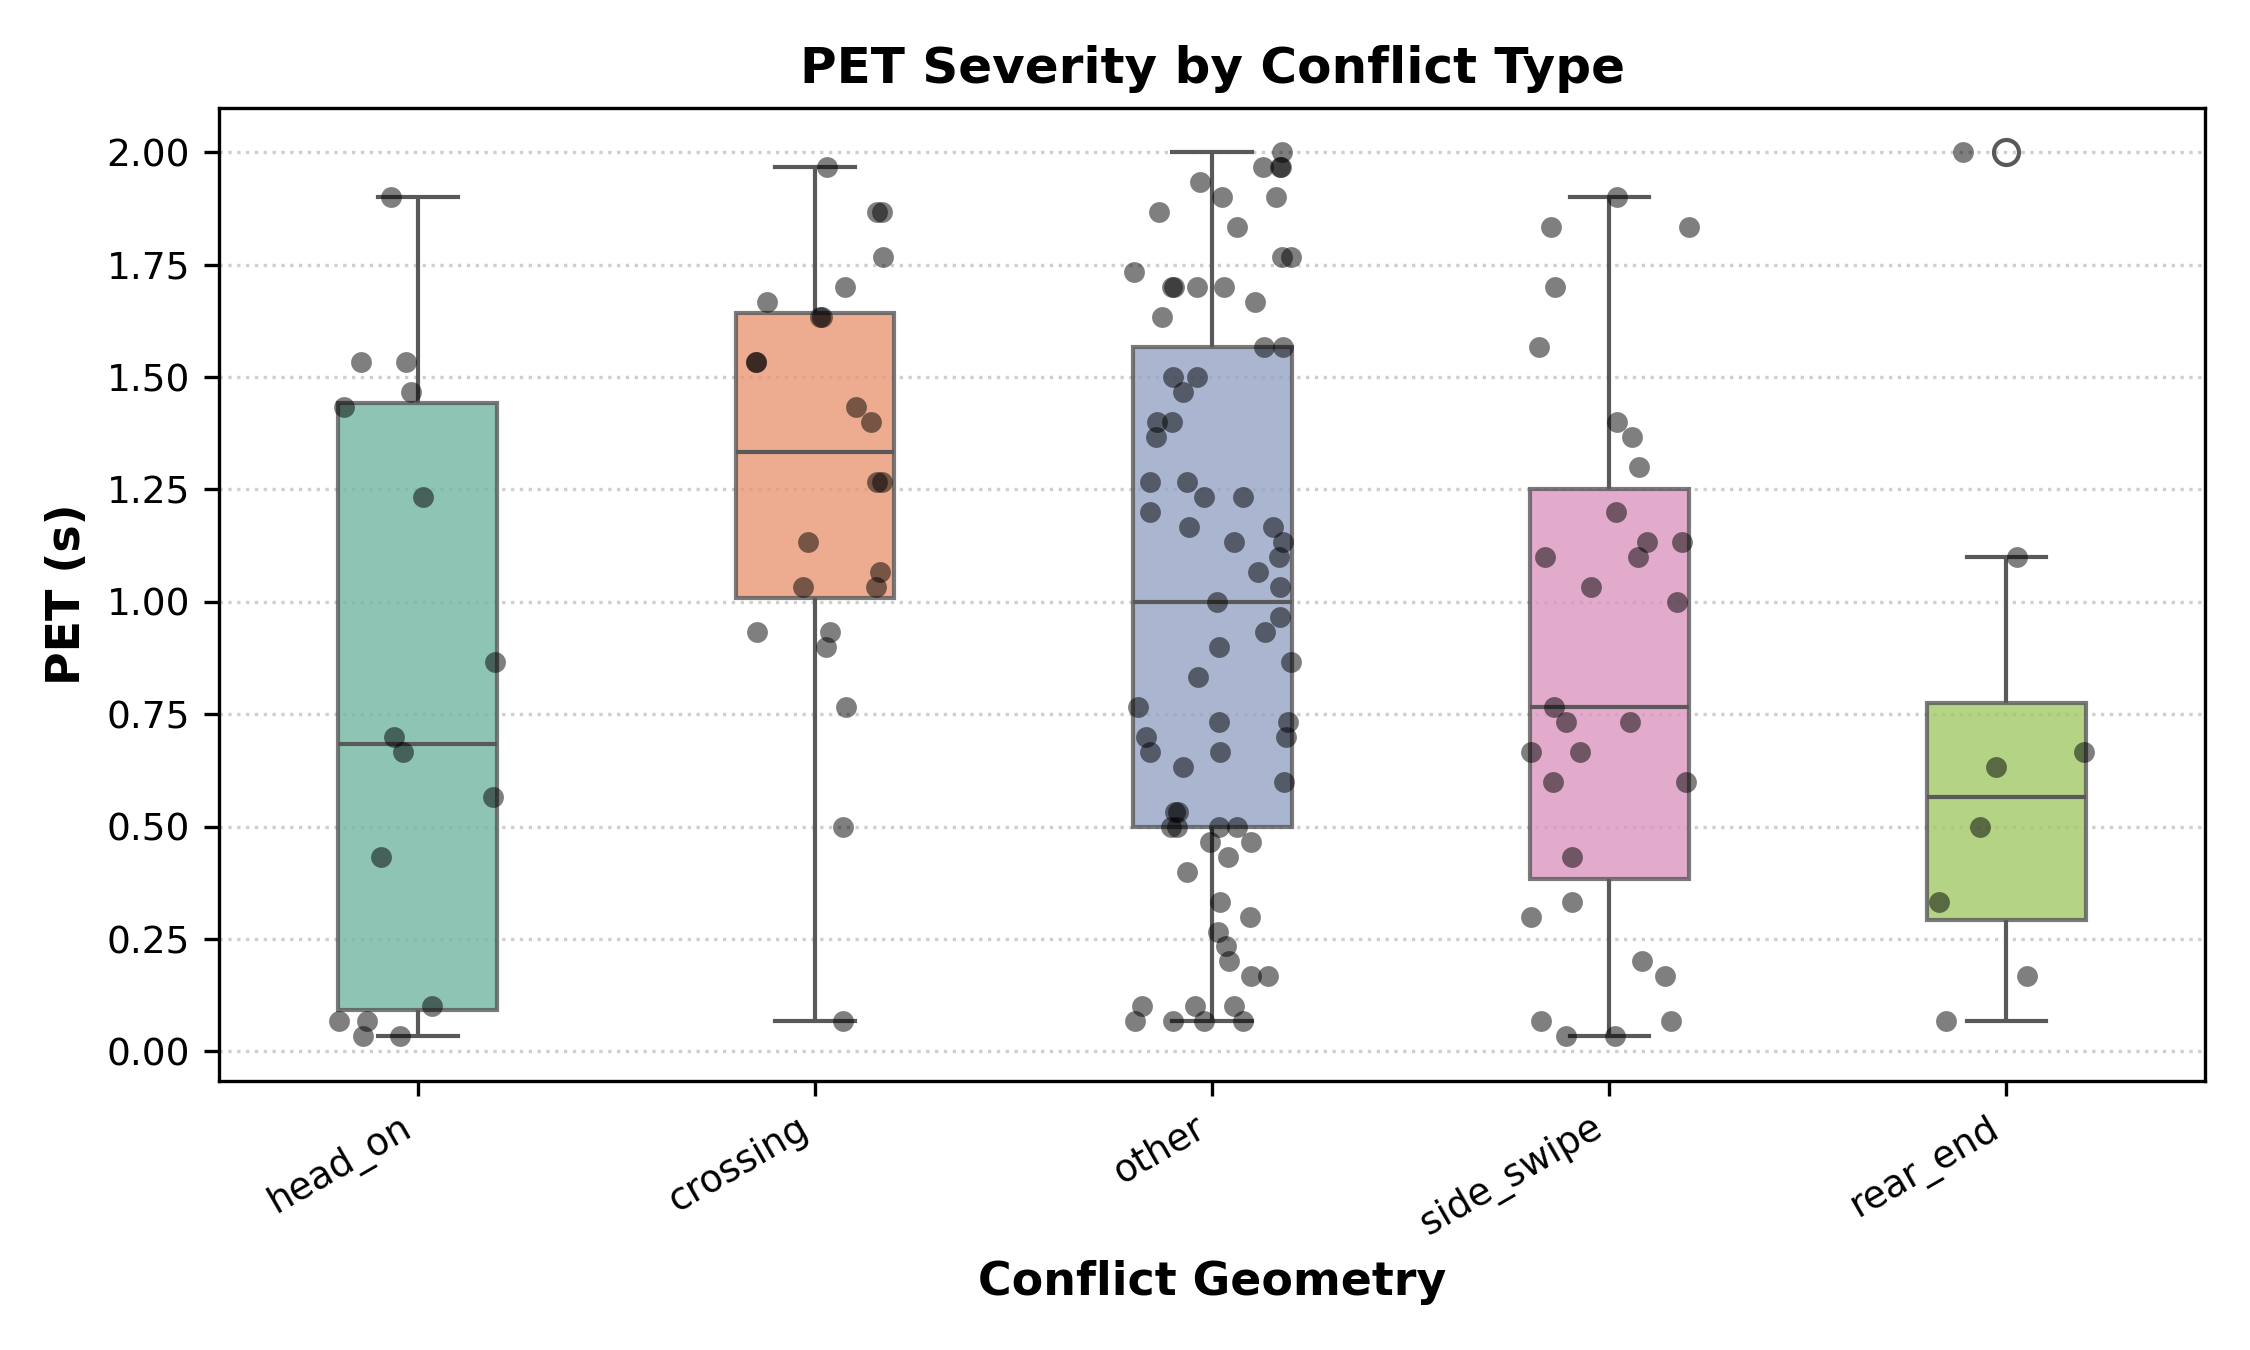
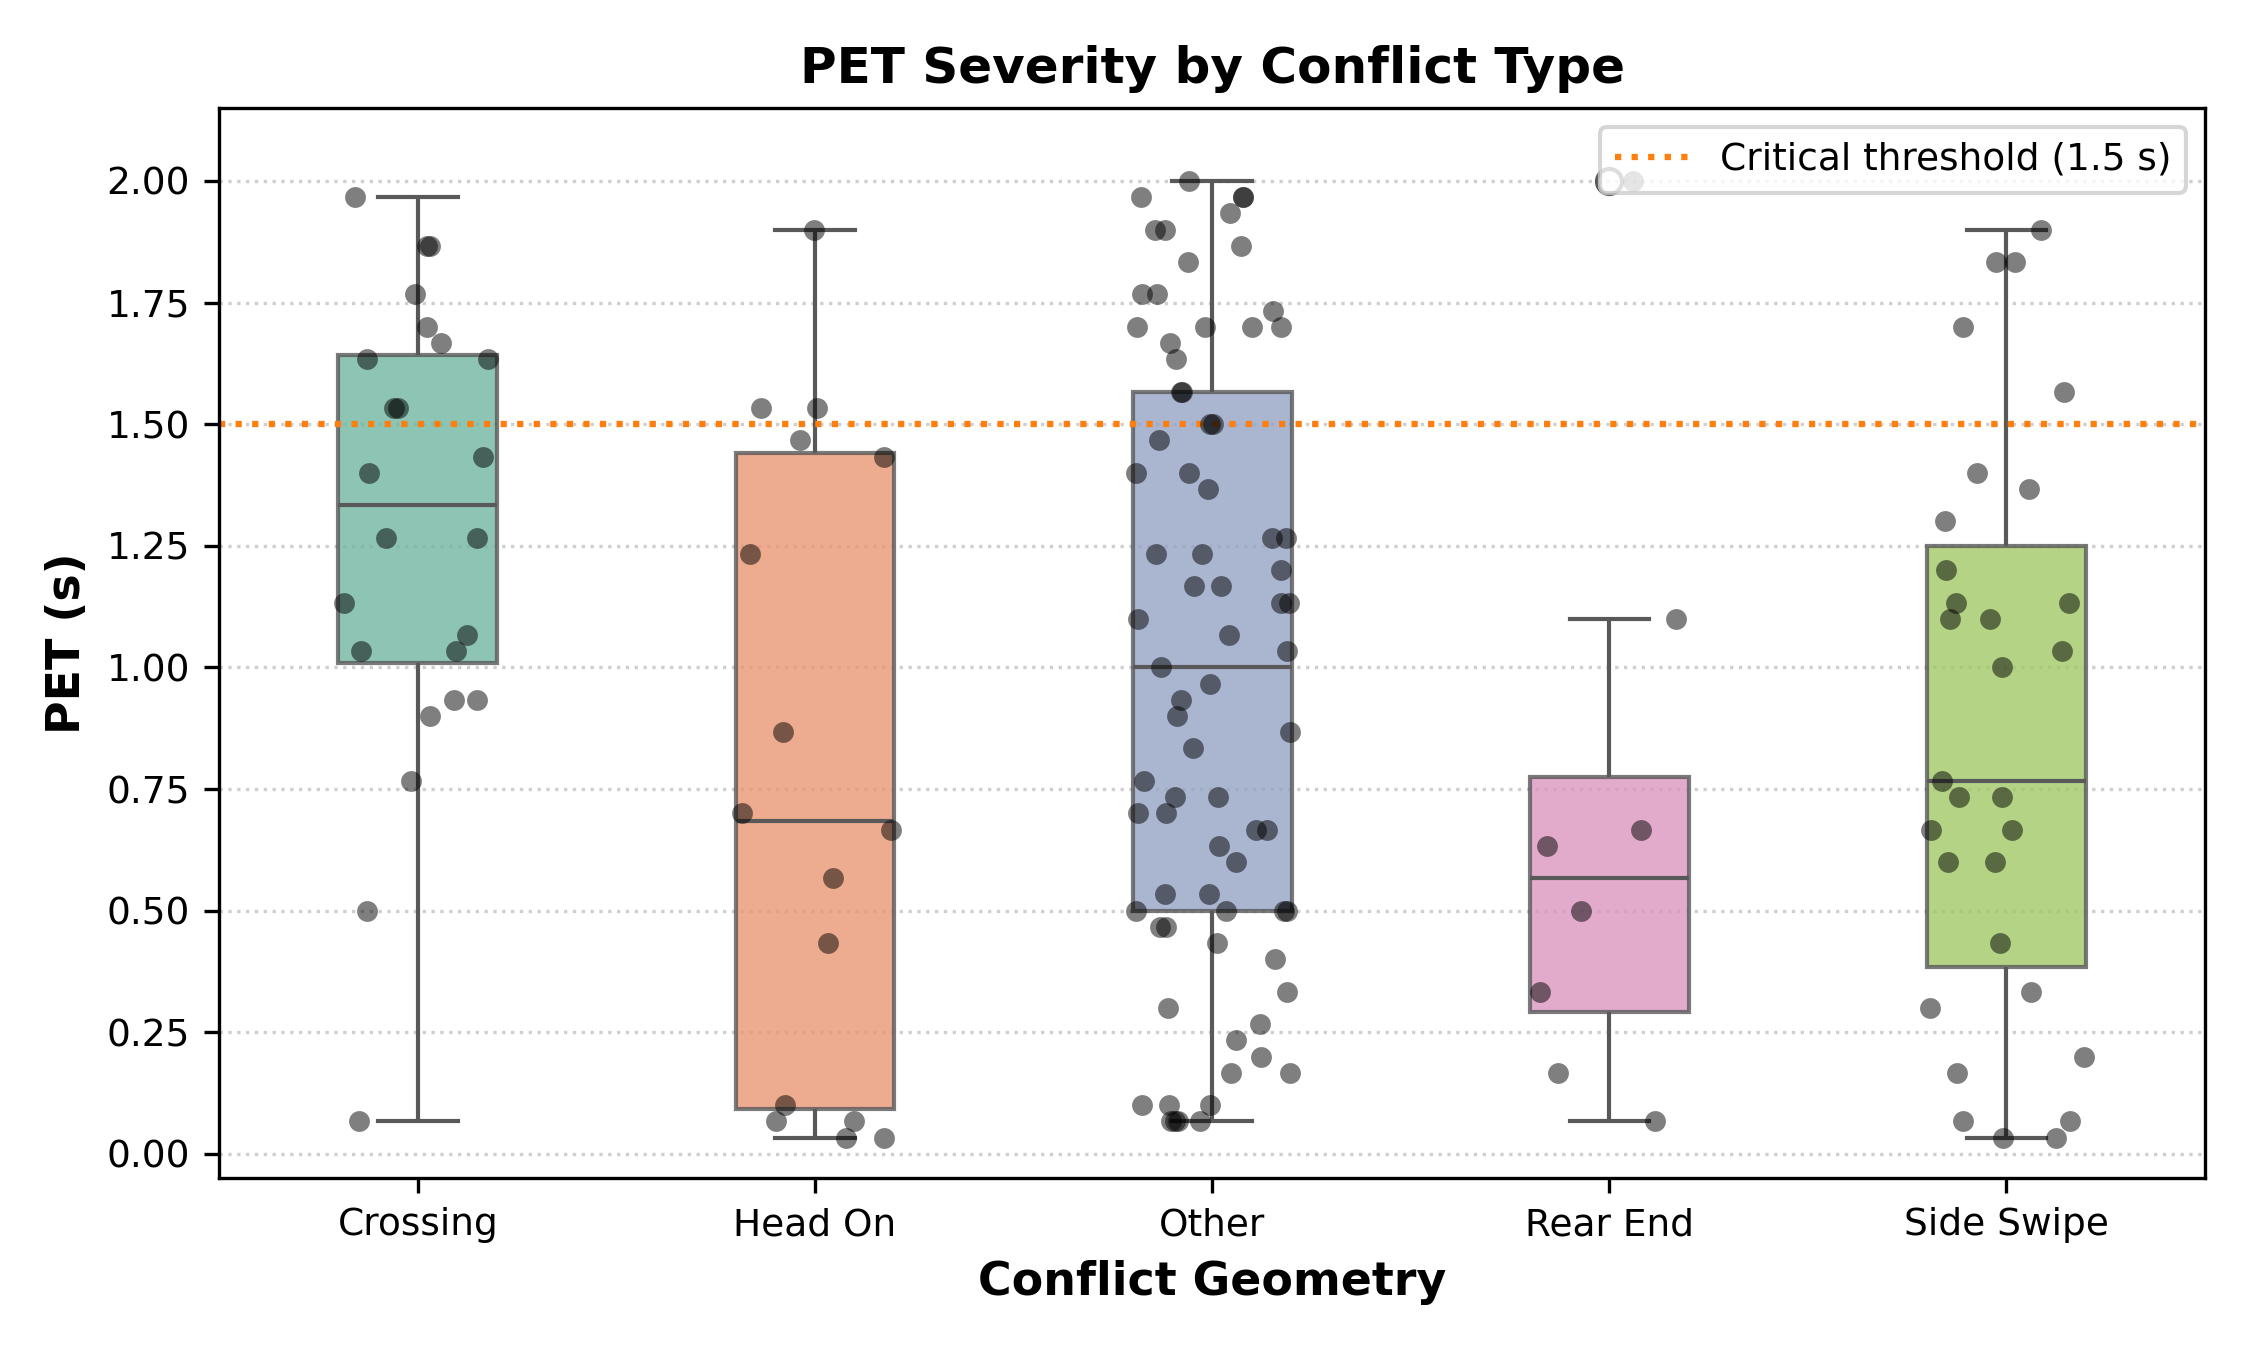
Refine publication figures and add architecture diagram

diff --git a/docs/figures/README.md b/docs/figures/README.md
@@ -1,12 +1,11 @@
 # Publication Figures
 
-Generated from 300-frame validated pipeline.
+Refined figures for manuscript.
 
 | Figure | Description |
 |--------|-------------|
 | `pet_distribution.png` | PET histogram + KDE with median, IQR, and critical threshold |
 | `conflict_type_distribution.png` | Conflict type counts and percentages |
 | `pet_by_conflict_type.png` | PET severity by conflict type |
-| `sensitivity_prediction_tolerance.png` | Prediction tolerance sensitivity line plot |
-| `tracking_quality_summary.png` | Tracking quality flag distribution |
-| `bev_validation_overlay.png` | BEV calibration overlay |
+| `pipeline_architecture.png` | Pipeline architecture block diagram |
+| `bev_dual_panel.png` | Dual-panel BEV homography validation |
